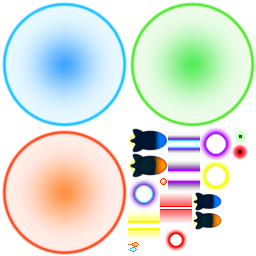
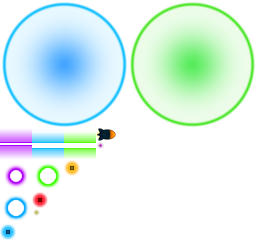
Shots updated (names, design)

diff --git a/public_html/js/modules/shots.js b/public_html/js/modules/shots.js
@@ -5,8 +5,8 @@ window.shot = {
                 return Crafty.e ('2D, Canvas, Image, {0}, {1}, {2}'.format (SHOT_ABS, type, avatar || P2P_IMAGE_NAME.shotNormal));
             case SHOT_LASER:
                 return Crafty.e ('2D, Canvas, Image, {0}, {1}'.format (SHOT_ABS, type))
-                        .setImage (LASER_IMAGE_PATH.laserThinRed)
-                        .setEnding (LASER_IMAGE_NAME.laserThinRedEnd)
+                        .setImage (LASER_IMAGE_NAME.chain)
+                        .setEnding (LASER_IMAGE_NAME.chainEnd)
                         .attr ({w: 10, h: 10});
             case SHOT_HOMING:
                 return Crafty.e ('2D, Canvas, Image, {0}, {1}, {2}'.format (SHOT_ABS, type, avatar || HOMING_IMAGE_NAME.rocketBlueSmall));
@@ -158,9 +158,9 @@ Crafty.c (SHOT_LASER, {
     create: function (laser, ending) {
         this.angle = NaN;
         if (!this.ending || ending)
-            this.setEnding (ending || LASER_IMAGE_NAME.laserThinRedEnd);
+            this.setEnding (ending || LASER_IMAGE_NAME.chain);
         if (!this.laser || laser)
-            this.setImage (laser || LASER_IMAGE_PATH.laserThinRed);
+            this.setImage (laser || LASER_IMAGE_NAME.chainEnd);
     },
     hide: function () {
         if (this.laser)
@@ -247,8 +247,8 @@ Crafty.c (SHOT_LASER, {
         //# laser is always valid
     },
     //#
-    setImage: function (path) {
-        this.laser = Crafty.e ("2D, Canvas, Image").image (path, "repeat");
+    setImage: function (avatar) {
+        this.laser = Crafty.e ("2D, Canvas, Image, {0}".format(avatar));
         this.laser.visible = false;
         return this;
     },

diff --git a/public_html/js/core/constants.js b/public_html/js/core/constants.js
@@ -133,43 +133,31 @@ var SHOT_LASER = 'Laser';
 var SHOT_SPLASH = 'Splash';
 var SHOT_HOMING = 'Homing';
 
-var LASER_IMAGE_PATH = {
-    laserThinRed: 'images/laser-thin-red.png',
-    laserThickYellow: 'images/laser-thick-yellow.png',
-    laserThickPurple: 'images/laser-thick-purple.png',
-    laserThickBlue: 'images/laser-thick-blue.png'
-};
 
 var LASER_IMAGE_NAME = {
-    laserThinRed: 'laser_thin_red',
-    laserThickYellow: 'laser_thick_yellow',
-    laserThickPurple: 'laser_thick_purple',
-    laserThickBlue: 'laser_thick_blue',
-    laserThinRedEnd: 'laser_thin_red_end',
-    laserThickYellowEnd: 'laser_thick_yellow_end',
-    laserThickPurpleEnd: 'laser_thick_purple_end',
-    laserThickBlueEnd: 'laser_thick_blue_end'
+    chain: "chain",
+    chainEnd: "chain_end",
+    laser: "laser",
+    laserEnd: "laserEnd",
+    playerLaser: "player_laser",
+    playerLaserEnd: "player_laser_end"
 };
 
 var P2P_IMAGE_NAME = {
-    shotCannon: 'shot_cannon',
-    shotGreen: 'shot_green',
-    shotRed: 'shot_red',
-    shotIce: 'shot_ice',
-    shotNormal: 'shot_normal'
+    cannon: 'cannon',
+    flame: 'flame',
+    machineGun: 'machine_gun',
+    iceDart: 'ice_dart',
+    playerSoldier : "player_soldier"
 };
 
 var HOMING_IMAGE_NAME = {
-    rocketBlue: 'rocket_blue',
-    rocketBlueSmall: 'rocket_blue_small',
-    rocketRed: 'rocket_red',
-    rocketRedSmall: 'rocket_red_small'
+    homing: 'homing'
 };
 
 var SPLASH_IMAGE_NAME = {
-    auraBlue: 'aura_blue',
-    auraRed: 'aura_red',
-    auraGreen: 'aura_green',
+    electric: 'electric',
+    slow: 'slow'
 };
 
 var REZISTANCE = 1.00;

diff --git a/public_html/js/scenes/loading.js b/public_html/js/scenes/loading.js
@@ -195,26 +195,20 @@ Crafty.sprite ('images/enemies.png', {
 });
 
 Crafty.sprite ('images/shots.png', {
-    aura_blue: [0, 0, 128, 128],
-    aura_green: [128, 0, 128, 128],
-    aura_red: [0, 128, 128, 128],
-    laser_thick_blue: [168, 128, 32, 32],
-    laser_thick_blue_end: [128, 178, 32, 32],
-    laser_thick_purple: [168, 160, 32, 32],
-    laser_thick_purple_end: [200, 128, 32, 32],
-    laser_thick_yellow: [128, 210, 32, 32],
-    laser_thick_yellow_end: [200, 160, 32, 32],
-    laser_thin_red: [160, 192, 32, 32],
-    laser_thin_red_end: [160, 224, 32, 32],
-    rocket_blue: [128, 128, 40, 25],
-    rocket_blue_small: [192, 192, 30, 19],
-    rocket_red: [128, 153, 40, 25],
-    rocket_red_small: [192, 211, 30, 19],
-    shot_cannon: [160, 178, 7, 7],
-    shot_green: [232, 128, 16, 16],
-    shot_ice: [128, 247, 9, 5],
-    shot_normal: [128, 242, 11, 5],
-    shot_red: [232, 144, 16, 16]
+    cannon: [64, 160, 16, 16],
+    electric: [0, 0, 128, 128],
+    flame: [32, 192, 16, 16],
+    homing: [96, 128, 20, 13],
+    chain: [0, 128, 32, 32],
+    chain_end: [0, 160, 32, 32],
+    ice_dart: [0, 224, 16, 16],
+    laser: [32, 128, 32, 32],
+    laser_end: [0, 192, 32, 32],
+    machine_gun: [96, 141, 9, 9],
+    player_laser: [64, 128, 32, 32],
+    player_laser_end: [32, 160, 32, 32],
+    player_soldier: [32, 208, 9, 9],
+    slow: [128, 0, 128, 128]
 });
 
 Crafty.sprite ('images/towers/towers.png', {
